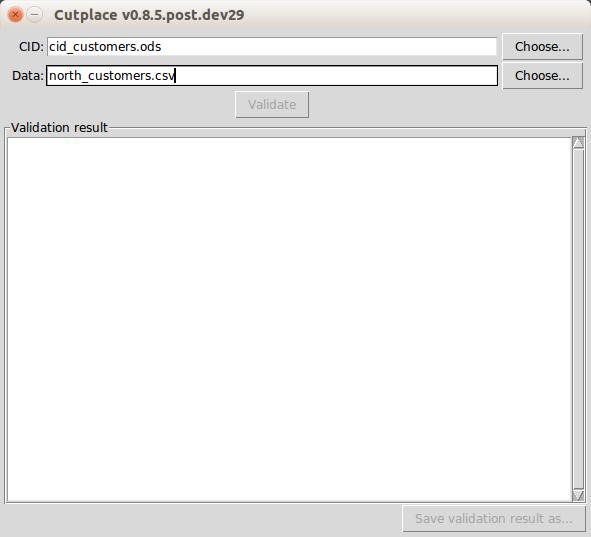
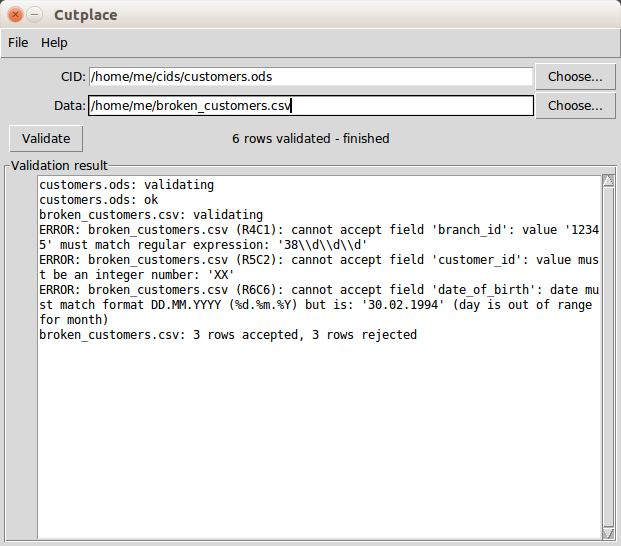
#77: Add graphical user interface.
* Added menu bar and moved version information from title bar to Help > About menu.
* Renamed "validation result" to "validation report".

Changed region(s): [[0.0, 0.0, 1.0, 1.0]]

diff --git a/cutplace/gui.py b/cutplace/gui.py
@@ -15,6 +15,11 @@ A graphical user interface to specify a CID and data file and validate them.
 #
 # You should have received a copy of the GNU Lesser General Public License
 # along with this program.  If not, see <http://www.gnu.org/licenses/>.
+from __future__ import absolute_import
+from __future__ import division
+from __future__ import print_function
+from __future__ import unicode_literals
+
 import io
 import os
 import six
@@ -47,13 +52,14 @@ _PADDING = 4
 _CID_ROW = 0
 _DATA_ROW = 1
 _VALIDATE_BUTTON_ROW = 2
-_VALIDATION_RESULT_ROW = 3
+_VALIDATION_REPORT_ROW = 3
 _SAVE_ROW = 4
 
 # Menu indices to enable / disable certain items.
 _CHOOSE_CID_PATH_MENU_INDEX = 0
 _CHOOSE_DATA_PATH_MENU_INDEX = 1
-_SAVE_LOG_AS_MENU_INDEX = 2
+_SAVE_VALIDATION_REPORT_AS_MENU_INDEX = 2
+_QUIT_MENU_INDEX = 3
 
 
 class CutplaceFrame(Frame):
@@ -82,7 +88,7 @@ class CutplaceFrame(Frame):
         # Define basic layout.
         self.grid(padx=_PADDING, pady=_PADDING)
         # self.grid_columnconfigure(1, weight=1)
-        self.grid_rowconfigure(_VALIDATION_RESULT_ROW, weight=1)
+        self.grid_rowconfigure(_VALIDATION_REPORT_ROW, weight=1)
 
         # Choose CID.
         self._cid_label = Label(self, text='CID:')
@@ -112,16 +118,16 @@ class CutplaceFrame(Frame):
         validation_status_label.grid(row=_VALIDATE_BUTTON_ROW, column=1)
 
         # Validation result.
-        validation_result_frame = LabelFrame(self, text='Validation result')
-        validation_result_frame.grid(row=_VALIDATION_RESULT_ROW, columnspan=3, sticky=E + N + S + W)
-        validation_result_frame.grid_columnconfigure(0, weight=1)
-        validation_result_frame.grid_rowconfigure(0, weight=1)
-        self._validation_result_text = Text(validation_result_frame)
-        self._validation_result_text.grid(column=0, row=0, sticky=E + N + S)
-        _validation_result_scrollbar = Scrollbar(validation_result_frame)
-        _validation_result_scrollbar.grid(column=1, row=0, sticky=N + S + W)
-        _validation_result_scrollbar.config(command=self._validation_result_text.yview)
-        self._validation_result_text.config(yscrollcommand=_validation_result_scrollbar.set)
+        validation_report_frame = LabelFrame(self, text='Validation report')
+        validation_report_frame.grid(row=_VALIDATION_REPORT_ROW, columnspan=3, sticky=E + N + S + W)
+        validation_report_frame.grid_columnconfigure(0, weight=1)
+        validation_report_frame.grid_rowconfigure(0, weight=1)
+        self._validation_report_text = Text(validation_report_frame)
+        self._validation_report_text.grid(column=0, row=0, sticky=E + N + S)
+        _validation_report_scrollbar = Scrollbar(validation_report_frame)
+        _validation_report_scrollbar.grid(column=1, row=0, sticky=N + S + W)
+        _validation_report_scrollbar.config(command=self._validation_report_text.yview)
+        self._validation_report_text.config(yscrollcommand=_validation_report_scrollbar.set)
 
         # Set up file dialogs.
         self._choose_cid_dialog = Open(
@@ -140,11 +146,12 @@ class CutplaceFrame(Frame):
 
         menubar = Menu(master)
         master.config(menu=menubar)
-        file_menu = Menu(menubar, tearoff=False)
-        file_menu.add_command(command=self.choose_cid, label='Choose CID...')
-        file_menu.add_command(command=self.choose_data, label='Choose data...')
-        file_menu.add_command(command=self.save_log_as, label='Save log as...')
-        menubar.add_cascade(label='File', menu=file_menu)
+        self._file_menu = Menu(menubar, tearoff=False)
+        self._file_menu.add_command(command=self.choose_cid, label='Choose CID...')
+        self._file_menu.add_command(command=self.choose_data, label='Choose data...')
+        self._file_menu.add_command(command=self.save_validation_report_as, label='Save validation report as...')
+        self._file_menu.add_command(command=self.quit, label='Quit')
+        menubar.add_cascade(label='File', menu=self._file_menu)
         help_menu = Menu(menubar, tearoff=False)
         help_menu.add_command(command=self.show_about, label='About')
         menubar.add_cascade(label='Help', menu=help_menu)
@@ -152,15 +159,25 @@ class CutplaceFrame(Frame):
         self._enable_usable_widgets()
 
     def _enable_usable_widgets(self):
-        def set_state(widget_to_set_state_for, possibly_empty_text):
+        def state_for(possibly_empty_text):
             if (possibly_empty_text is not None) and (possibly_empty_text.rstrip() != ''):
-                state = 'normal'
+                result = 'normal'
             else:
-                state = 'disabled'
-            widget_to_set_state_for.config(state=state)
+                result = 'disabled'
+            return result
+
+        def set_state(widget_to_set_state_for, possibly_empty_text):
+            widget_to_set_state_for.config(state=state_for(possibly_empty_text))
 
         set_state(self._validate_button, self.cid_path)
-        set_state(self._validation_result_text, self.validation_result)
+        set_state(self._validation_report_text, self.validation_report)
+        set_state(self._data_path_entry, self.cid_path)
+        set_state(self._choose_data_button, self.cid_path)
+
+        cid_path_state = state_for(self.cid_path)
+        self._file_menu.entryconfig(_CHOOSE_DATA_PATH_MENU_INDEX, state=cid_path_state)
+        self._file_menu.entryconfig(_SAVE_VALIDATION_REPORT_AS_MENU_INDEX, state=state_for(self.validation_report))
+
 
     def choose_cid(self):
         """
@@ -180,30 +197,33 @@ class CutplaceFrame(Frame):
             self.data_path = data_path
             self._enable_usable_widgets()
 
-    def save_log_as(self):
+    def save_validation_report_as(self):
         """
         Open a dialog to set specify where the validation results should be
         stored and write to this file.
         """
-        validation_result_path = self._save_log_as_dialog.show()
-        if validation_result_path != '':
+        validation_report_path = self._save_log_as_dialog.show()
+        if validation_report_path != '':
             try:
-                with io.open(validation_result_path, 'w', encoding='utf-8') as validation_result_file:
-                    validation_result_file.write(self._validation_result_text.get(1.0, END))
+                with io.open(validation_report_path, 'w', encoding='utf-8') as validation_result_file:
+                    validation_result_file.write(self._validation_report_text.get(1.0, END))
             except Exception as error:
                 showerror('Cutplace error', 'Cannot save validation results:\n%s' % error)
+
+    def quit(self):
+        self.destroy()  # FIXME: Actually close root frame and exit application.
 
     def show_about(self):
         showinfo('Cutplace', 'Version ' + __version__)
 
-    def clear_validation_result_text(self):
+    def clear_validation_report_text(self):
         """
         Clear the text area containing the validation results.
         """
-        self._validation_result_text.configure(state='normal')
-        self._validation_result_text.delete(1.0, END)
-        self._validation_result_text.see(END)
-        self._validation_result_text.configure(state='disabled')
+        self._validation_report_text.configure(state='normal')
+        self._validation_report_text.delete(1.0, END)
+        self._validation_report_text.see(END)
+        self._enable_usable_widgets()
 
     def _cid_path(self):
         return self._cid_path_entry.get()
@@ -226,8 +246,8 @@ class CutplaceFrame(Frame):
     data_path = property(_data_path, _set_data_path, None, 'Path of the data to validate')
 
     @property
-    def validation_result(self):
-        return self._validation_result_text.get(0.0, END)
+    def validation_report(self):
+        return self._validation_report_text.get(0.0, END)
 
     def validate(self):
         """
@@ -238,12 +258,12 @@ class CutplaceFrame(Frame):
         assert self.cid_path != ''
 
         def add_log_line(line):
-            self._validation_result_text.config(state=NORMAL)
+            self._validation_report_text.config(state=NORMAL)
             try:
-                self._validation_result_text.insert(END, line + '\n')
-                self._validation_result_text.see(END)
+                self._validation_report_text.insert(END, line + '\n')
+                self._validation_report_text.see(END)
             finally:
-                self._validation_result_text.config(state=DISABLED)
+                self._validation_report_text.config(state=DISABLED)
 
         def add_log_error_line(line_or_error):
             add_log_line('ERROR: %s' % line_or_error)
@@ -255,7 +275,7 @@ class CutplaceFrame(Frame):
         assert self.cid_path != ''
 
         cid_name = os.path.basename(self.cid_path)
-        self.clear_validation_result_text()
+        self.clear_validation_report_text()
         add_log_line('%s: validating' % cid_name)
         self._enable_usable_widgets()
         cid = None
